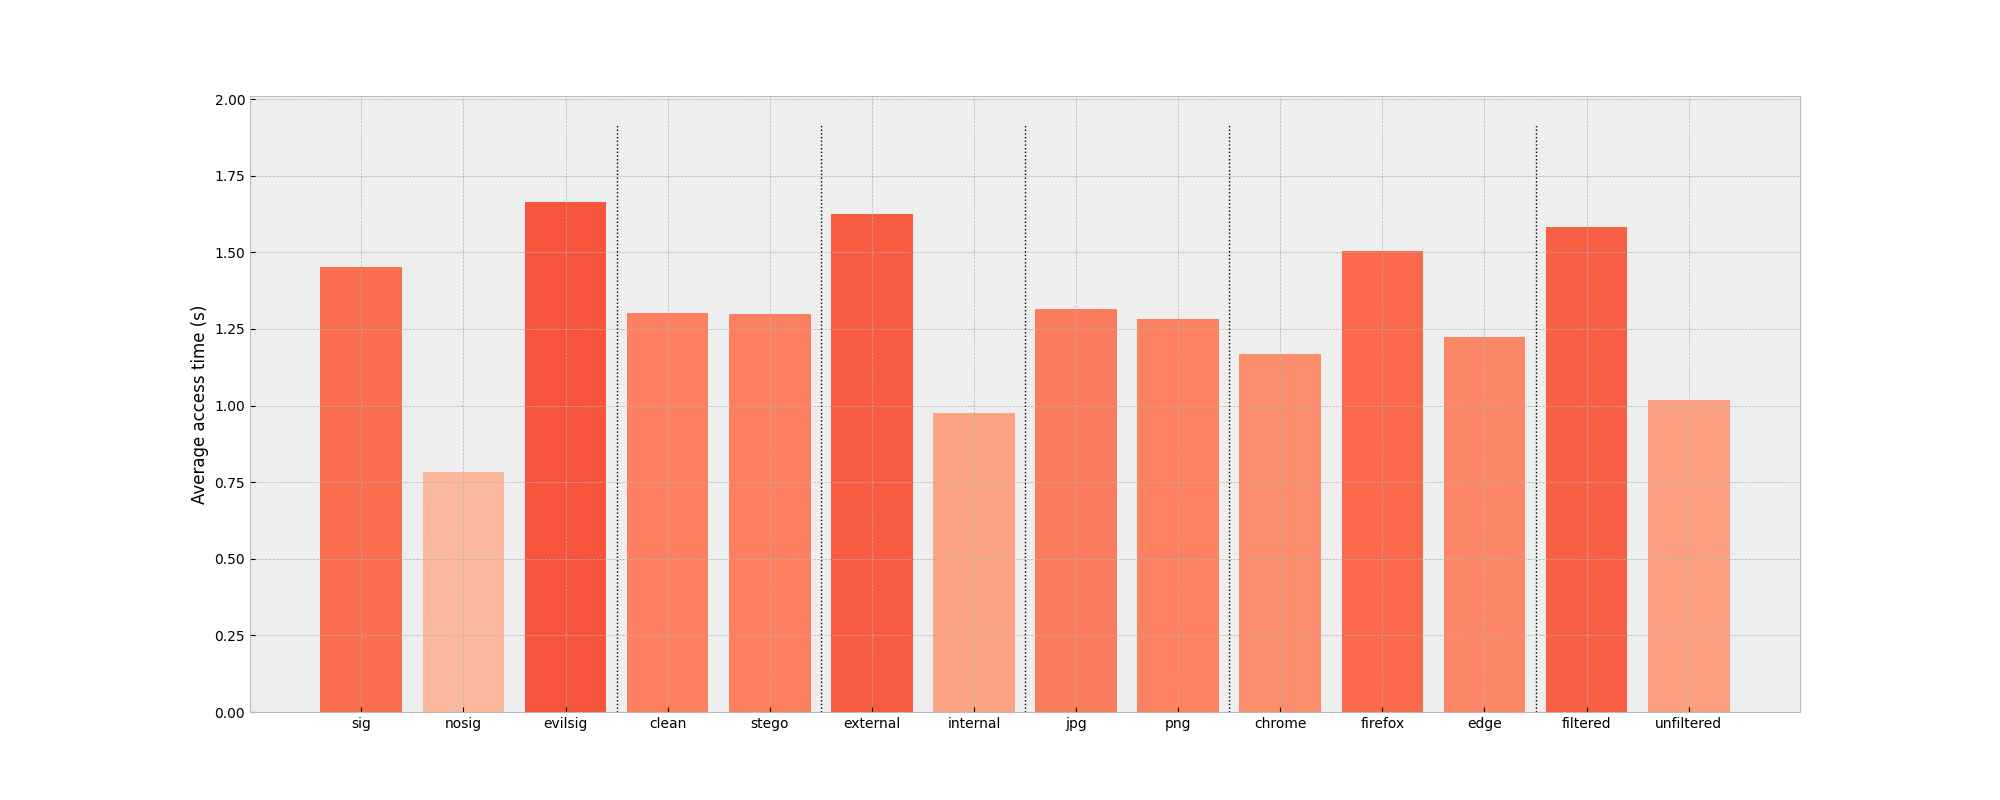
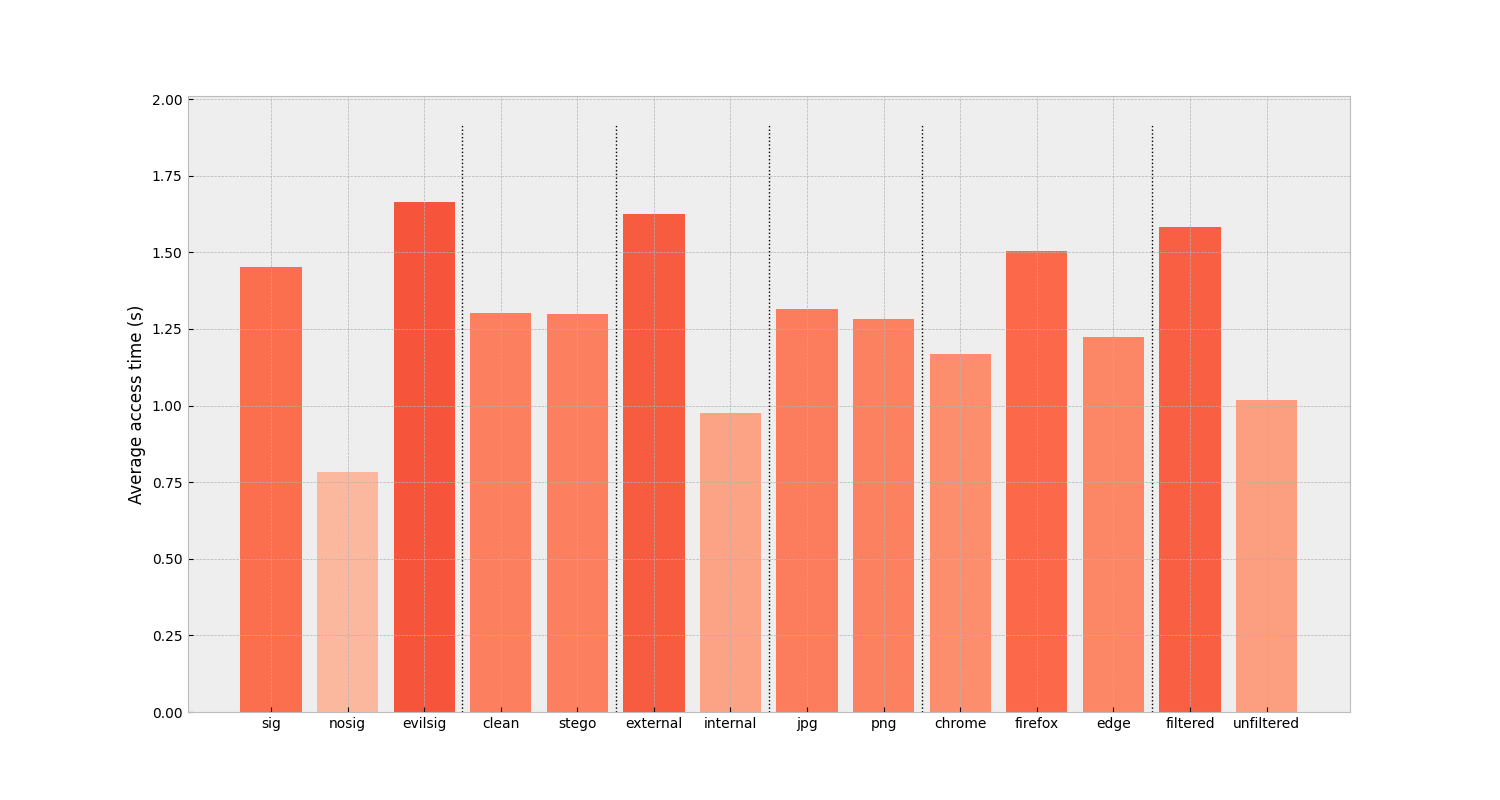
changed plot sizes

diff --git a/client/visualise.py b/client/visualise.py
@@ -101,7 +101,7 @@ def plot_measurement_by_category(measurement):
                     bins['png'].append(measure)
 
     with plt.style.context('bmh'):
-        plt.figure(figsize=(20, 8))
+        plt.figure(figsize=(15, 8))
         index = 1
         max_avg = 0
         for category in bins:
